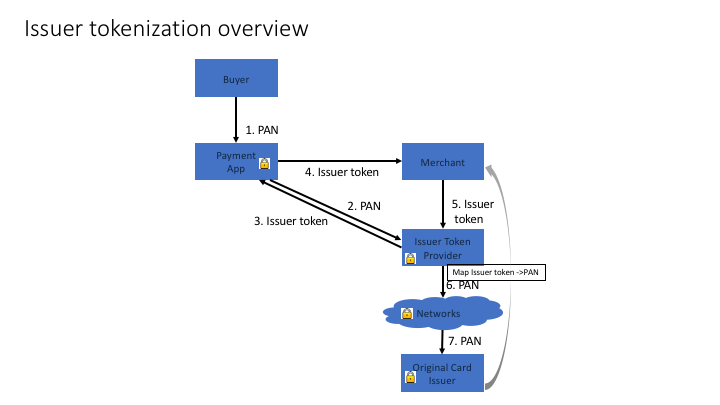
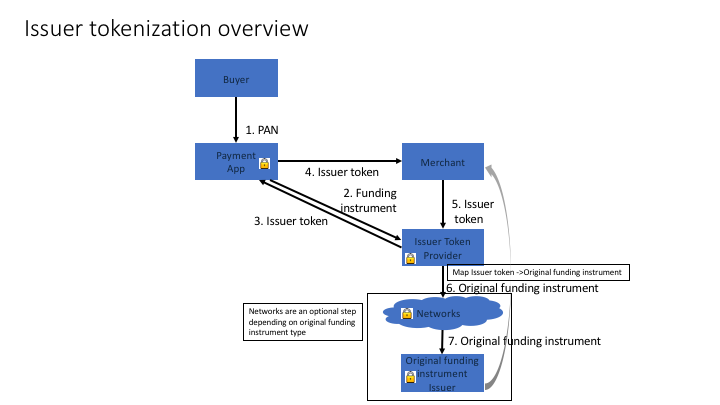
Updates to token card spec and diagrams

diff --git a/proposals/tokenized_cards.html b/proposals/tokenized_cards.html
@@ -91,7 +91,7 @@
         [[!PAYMENTREQUESTAPI]] to support payment by tokenized payment cards. Tokenization provides some advantages over traditional card payments - tokenized credentials are often narrowly scoped, for example single-use or merchant/amount/time scoped.  Tokenized credentials also help alleviate some concerns about merchant data breaches since the merchant does not have the raw PAN.  This provides some additional security for a consumer.
       </p>
       <p>
-        This specification covers issuer and network tokens, but does not encompass all types of tokenization.  As an example, gateway tokens are not covered by this specification since they often require merchant onboarding with the token provider.  Network tokens are tokens (typically single-use) provided by card networks (i.e. Visa/MasterCard/American Express/Discover/etc.).  These tokens are a representation of the underlying PAN.  With issuer tokens, a provider serves as a card issuer by generating a new card number (not necessarily of the same type as the original PAN).  During charging of these tokens, the provider translates the generated card number back into the original PAN.
+        This specification covers issuer and network tokens, but does not encompass all types of tokenization.  As an example, gateway tokens are not covered by this specification since they often require merchant onboarding with the token provider.  Network tokens are tokens (typically single-use) provided by card networks (i.e. Visa/MasterCard/American Express/Discover/etc.).  These tokens are a representation of the underlying PAN.  With issuer tokens, a provider serves as a card issuer by generating a new card number.  During charging of these tokens, the provider translates the generated card number back into the original PAN.
       </p>
 
       <p>The flow of issuer tokens is shown in the diagram below:</p>
